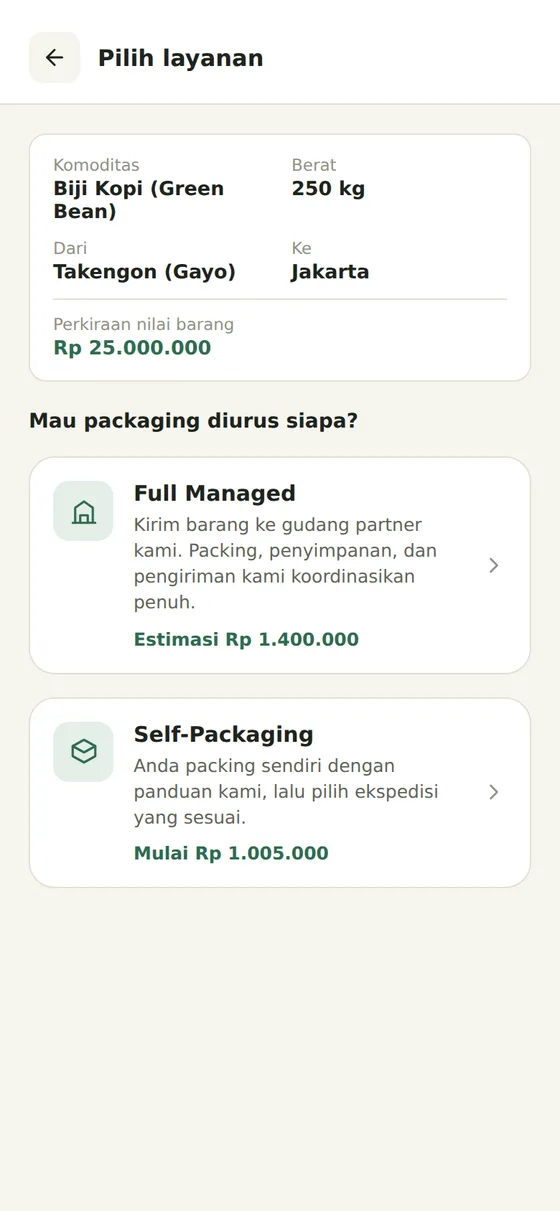
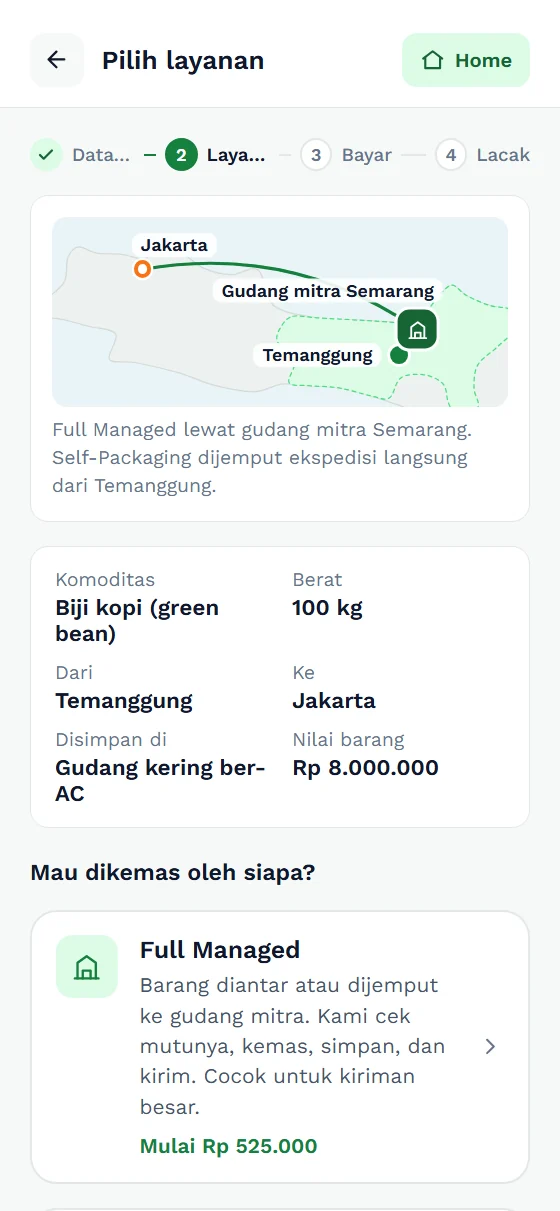
Match website theme to prototype (fresh green and white)
- New color tokens for light and dark mode; brighter orange text in dark mode
- 404 page uses the same colors
- Phone mockup replaced with a screenshot of the current prototype

diff --git a/style.css b/style.css
@@ -1,6 +1,6 @@
 :root{
-  --forest:#1F3D30; --green:#2F6B4F; --lime:#C0DD97; --clay:#B8683F; --clay-soft:#F5E6DB;
-  --bg:#F6F5EF; --surface:#FFFFFF; --tint:#EAF3EC; --ink:#1E231C; --ink-soft:#5F6457; --muted:#8E9283; --line:#E5E1D5; --green-text:#2F6B4F;
+  --forest:#14532D; --green:#15803D; --lime:#86EFAC; --clay:#C2410C; --clay-soft:#FFEDD5;
+  --bg:#F7F9F8; --surface:#FFFFFF; --tint:#ECFDF3; --ink:#0F172A; --ink-soft:#475569; --muted:#64748B; --line:#E2E8E5; --green-text:#15803D;
   --display:'Fraunces',Georgia,'Times New Roman',serif;
   --body:'Work Sans',system-ui,-apple-system,'Segoe UI',sans-serif;
   box-sizing:border-box;
@@ -9,11 +9,11 @@
 }
 @media (prefers-color-scheme:dark){
   :root:not([data-theme="light"]){
-    --bg:#141A16; --surface:#1C241F; --tint:#1F2B24; --ink:#EEF2EC; --ink-soft:#B4BEB5; --muted:#7F8A81; --line:#2C3830; --clay-soft:#3A2A21; --green-text:#8FC7A2;
+    --bg:#0B1410; --surface:#13201A; --tint:#15281E; --ink:#ECFDF5; --ink-soft:#A7B8AF; --muted:#7C8C84; --line:#23362C; --clay-soft:#3B2416; --clay:#FB923C; --green-text:#86EFAC;
   }
 }
 :root[data-theme="dark"]{
-  --bg:#141A16; --surface:#1C241F; --tint:#1F2B24; --ink:#EEF2EC; --ink-soft:#B4BEB5; --muted:#7F8A81; --line:#2C3830; --clay-soft:#3A2A21; --green-text:#8FC7A2;
+  --bg:#0B1410; --surface:#13201A; --tint:#15281E; --ink:#ECFDF5; --ink-soft:#A7B8AF; --muted:#7C8C84; --line:#23362C; --clay-soft:#3B2416; --clay:#FB923C; --green-text:#86EFAC;
 }
 *,*::before,*::after{box-sizing:border-box;margin:0;padding:0}
 html{scroll-behavior:smooth;scroll-padding-top:calc(env(safe-area-inset-top,0px) + 76px)}
@@ -31,17 +31,17 @@ section{padding:96px 0}
 .btn{display:inline-flex;align-items:center;gap:10px;font-family:var(--body);font-size:16px;font-weight:600;padding:15px 24px;border-radius:12px;text-decoration:none;transition:transform .15s,background .15s}
 .btn:hover{transform:translateY(-1px)}
 .btn:focus-visible,a:focus-visible{outline:2px solid var(--lime);outline-offset:3px}
-.btn-clay{background:var(--clay);color:#fff}
-.btn-clay:hover{background:#A35A35}
+.btn-clay{background:#D2470E;color:#fff}
+.btn-clay:hover{background:#C2410C}
 .btn-line{border:1.5px solid rgba(255,255,255,.3);color:#fff}
-.btn-white{background:#fff;color:var(--clay)}
+.btn-white{background:#fff;color:#C2410C}
 
 /* ---------- NAV ---------- */
 .nav{position:sticky;top:0;z-index:20;background:color-mix(in srgb,var(--forest) 92%,transparent);backdrop-filter:blur(10px);-webkit-backdrop-filter:blur(10px);border-bottom:1px solid rgba(255,255,255,.08)}
 .nav .wrap{display:flex;align-items:center;justify-content:space-between;height:68px}
 .brand{display:flex;align-items:center;gap:10px;text-decoration:none;color:#fff;font-family:var(--display);font-size:22px;font-weight:600}
 .nav-links{display:flex;gap:28px;list-style:none}
-.nav-links a{color:#C9DACE;text-decoration:none;font-size:15px;font-weight:500}
+.nav-links a{color:#C7EBD3;text-decoration:none;font-size:15px;font-weight:500}
 .nav-links a:hover{color:#fff}
 .nav .btn{padding:10px 18px;font-size:15px}
 
@@ -51,22 +51,22 @@ section{padding:96px 0}
 .hero .eyebrow{color:var(--lime)}
 .hero h1{font-size:clamp(42px,6.4vw,74px);margin-top:14px}
 .hero h1 span{color:var(--lime);display:block}
-.hero .lead{color:#BFD3C6}
+.hero .lead{color:#C7EBD3}
 .hero-cta{display:flex;flex-wrap:wrap;gap:12px;margin-top:32px}
 .tiles{display:grid;grid-template-columns:repeat(3,1fr);gap:12px;margin-top:40px;max-width:600px}
 .tile{background:rgba(255,255,255,.06);border:1px solid rgba(255,255,255,.12);border-radius:16px;padding:16px}
-.tile .k{display:flex;align-items:center;gap:7px;font-size:13px;color:#BFD3C6}
+.tile .k{display:flex;align-items:center;gap:7px;font-size:13px;color:#C7EBD3}
 .tile .k .ic{width:16px;height:16px;color:var(--lime)}
 .tile .v{font-family:var(--display);font-size:clamp(24px,3vw,32px);font-weight:600;margin-top:8px;line-height:1}
-.tile .d{font-size:12.5px;color:#8FAE9B;margin-top:4px}
-.phone{width:min(300px,78vw);margin:0 auto;background:#0D1A14;border-radius:44px;padding:11px;box-shadow:0 50px 90px -30px rgba(0,0,0,.65),inset 0 0 0 2px #2A4A3A;position:relative}
+.tile .d{font-size:12.5px;color:#8FCBA6;margin-top:4px}
+.phone{width:min(300px,78vw);margin:0 auto;background:#07130D;border-radius:44px;padding:11px;box-shadow:0 50px 90px -30px rgba(0,0,0,.65),inset 0 0 0 2px #1F5235;position:relative}
 .screen{border-radius:34px;overflow:hidden;background:#fff;position:relative}
-.sb{height:40px;display:flex;align-items:center;justify-content:space-between;padding:4px 24px 0;font-size:13px;font-weight:600;color:#1E231C;background:#fff}
-.sb i{width:20px;height:10px;border:1.5px solid #1E231C;border-radius:3px;position:relative}
-.sb i::after{content:"";position:absolute;inset:1.5px 5px 1.5px 1.5px;background:#1E231C;border-radius:1px}
-.notch{position:absolute;top:9px;left:50%;transform:translateX(-50%);width:88px;height:24px;background:#0D1A14;border-radius:99px}
+.sb{height:40px;display:flex;align-items:center;justify-content:space-between;padding:4px 24px 0;font-size:13px;font-weight:600;color:#0F172A;background:#fff}
+.sb i{width:20px;height:10px;border:1.5px solid #0F172A;border-radius:3px;position:relative}
+.sb i::after{content:"";position:absolute;inset:1.5px 5px 1.5px 1.5px;background:#0F172A;border-radius:1px}
+.notch{position:absolute;top:9px;left:50%;transform:translateX(-50%);width:88px;height:24px;background:#07130D;border-radius:99px}
 .screen img{width:100%;height:520px;object-fit:cover;object-position:top}
-.float{position:absolute;background:#fff;color:#1E231C;border-radius:14px;padding:10px 14px;font-size:13px;font-weight:600;display:flex;align-items:center;gap:8px;box-shadow:0 18px 40px -16px rgba(0,0,0,.5)}
+.float{position:absolute;background:#fff;color:#0F172A;border-radius:14px;padding:10px 14px;font-size:13px;font-weight:600;display:flex;align-items:center;gap:8px;box-shadow:0 18px 40px -16px rgba(0,0,0,.5)}
 .float .ic{width:18px;height:18px;color:var(--green)}
 .f1{top:33%;left:22px}.f2{bottom:6%;right:22px}
 @media (max-width:860px){
@@ -88,7 +88,7 @@ section{padding:96px 0}
 .stat span{font-size:14px;color:var(--ink-soft);display:block;margin-top:6px;line-height:1.45}
 .src{font-size:13px;color:var(--muted);margin-top:14px}
 .notifs{display:flex;flex-direction:column;gap:14px}
-.nt{background:var(--surface);border:1px solid var(--line);border-radius:18px;padding:16px 18px;display:flex;gap:14px;box-shadow:0 16px 34px -24px rgba(31,61,48,.45)}
+.nt{background:var(--surface);border:1px solid var(--line);border-radius:18px;padding:16px 18px;display:flex;gap:14px;box-shadow:0 16px 34px -24px rgba(20,83,45,.45)}
 .nt:nth-child(2){margin-left:36px}.nt:nth-child(3){margin-left:14px}
 .av{width:42px;height:42px;border-radius:12px;display:grid;place-items:center;font-family:var(--display);font-weight:600;color:#fff;flex-shrink:0}
 .nt-top{display:flex;justify-content:space-between;gap:10px;font-size:13px}
@@ -112,7 +112,7 @@ section{padding:96px 0}
 .svc-a{background:var(--forest);color:#fff}
 .svc-b{background:var(--surface);border:1px solid var(--line)}
 .svc .tag{align-self:flex-start;font-size:13px;font-weight:600;padding:6px 12px;border-radius:99px}
-.svc-a .tag{background:rgba(192,221,151,.15);color:var(--lime)}
+.svc-a .tag{background:rgba(134,239,172,.15);color:var(--lime)}
 .svc-b .tag{background:var(--tint);color:var(--green-text)}
 .svc h3{font-size:32px;margin-top:20px}
 .svc > p{font-size:16px;margin-top:10px;opacity:.85}
@@ -135,12 +135,12 @@ td .pill{display:inline-block;font-size:13px;font-weight:600;padding:4px 10px;bo
 
 /* ---------- PROMISE ---------- */
 .promise{background:var(--clay);color:#fff}
-.promise .eyebrow{color:#F5E6DB}
+.promise .eyebrow{color:#FFEDD5}
 .pr-grid{display:grid;grid-template-columns:repeat(4,1fr);gap:14px;margin-top:44px}
-.pr{background:#fff;color:#1E231C;border-radius:20px;padding:24px}
-.pr .icw{width:48px;height:48px;border-radius:14px;background:#F5E6DB;display:grid;place-items:center;color:var(--clay)}
+.pr{background:#fff;color:#0F172A;border-radius:20px;padding:24px}
+.pr .icw{width:48px;height:48px;border-radius:14px;background:#FFEDD5;display:grid;place-items:center;color:var(--clay)}
 .pr h3{font-family:var(--body);font-size:18px;font-weight:600;letter-spacing:0;margin-top:16px;line-height:1.3}
-.pr p{font-size:14.5px;color:#5F6457;margin-top:6px;line-height:1.5}
+.pr p{font-size:14.5px;color:#475569;margin-top:6px;line-height:1.5}
 @media (max-width:960px){.pr-grid{grid-template-columns:1fr 1fr}}
 @media (max-width:520px){.pr-grid{grid-template-columns:1fr}}
 
@@ -158,11 +158,11 @@ td .pill{display:inline-block;font-size:13px;font-weight:600;padding:4px 10px;bo
 .cta{background:var(--forest);color:#fff;text-align:center}
 .cta h2{margin:10px auto 0}
 .cta .eyebrow{color:var(--lime)}
-.cta .lead{color:#BFD3C6;margin:16px auto 0}
+.cta .lead{color:#C7EBD3;margin:16px auto 0}
 .cta .hero-cta{justify-content:center}
-footer{background:#152A21;color:#8FAE9B;padding:36px 0;font-size:14px}
+footer{background:#0F3D22;color:#8FCBA6;padding:36px 0;font-size:14px}
 footer .wrap{display:flex;flex-wrap:wrap;justify-content:space-between;align-items:center;gap:16px}
-footer a{color:#C9DACE;text-decoration:none}
+footer a{color:#C7EBD3;text-decoration:none}
 footer a:hover{color:#fff}
 .soc{display:flex;gap:18px}
 

diff --git a/404.html b/404.html
@@ -7,10 +7,10 @@
 <link rel="icon" href="/assets/logo.svg" type="image/svg+xml">
 <link href="https://fonts.googleapis.com/css2?family=Fraunces:opsz,wght@9..144,600&family=Work+Sans:wght@400;600&display=swap" rel="stylesheet">
 <style>
-  body{margin:0;min-height:100vh;display:grid;place-items:center;background:#1F3D30;color:#fff;font-family:'Work Sans',system-ui,sans-serif;text-align:center;padding:24px}
+  body{margin:0;min-height:100vh;display:grid;place-items:center;background:#14532D;color:#fff;font-family:'Work Sans',system-ui,sans-serif;text-align:center;padding:24px}
   h1{font-family:'Fraunces',Georgia,serif;font-size:clamp(40px,8vw,64px);margin:0}
-  p{color:#BFD3C6;font-size:18px;margin:14px 0 30px}
-  a{display:inline-block;background:#B8683F;color:#fff;text-decoration:none;font-weight:600;padding:14px 24px;border-radius:12px}
+  p{color:#C7EBD3;font-size:18px;margin:14px 0 30px}
+  a{display:inline-block;background:#D2470E;color:#fff;text-decoration:none;font-weight:600;padding:14px 24px;border-radius:12px}
 </style>
 </head>
 <body>

diff --git a/index.html b/index.html
@@ -60,7 +60,7 @@
       <div class="phone">
         <div class="screen">
           <div class="sb"><span>9:41</span><i></i></div>
-          <img src="assets/mockup-layanan.webp" width="560" height="1211" loading="eager" alt="Layar Pilih layanan di aplikasi TransportX, menampilkan opsi Full Managed dan Self-Packaging beserta estimasi biaya">
+          <img src="assets/mockup-layanan.webp" width="560" height="1211" loading="eager" alt="Layar Pilih layanan di aplikasi TransportX: peta rute dari Temanggung lewat gudang mitra Semarang ke Jakarta, ringkasan kiriman, dan pilihan layanan Full Managed">
           <div class="notch"></div>
         </div>
         <div class="float f1"><svg class="ic" viewBox="0 0 24 24" aria-hidden="true"><path d="M9 12l2 2 4-4"/><circle cx="12" cy="12" r="9"/></svg>Sesuai standar kopi</div>
